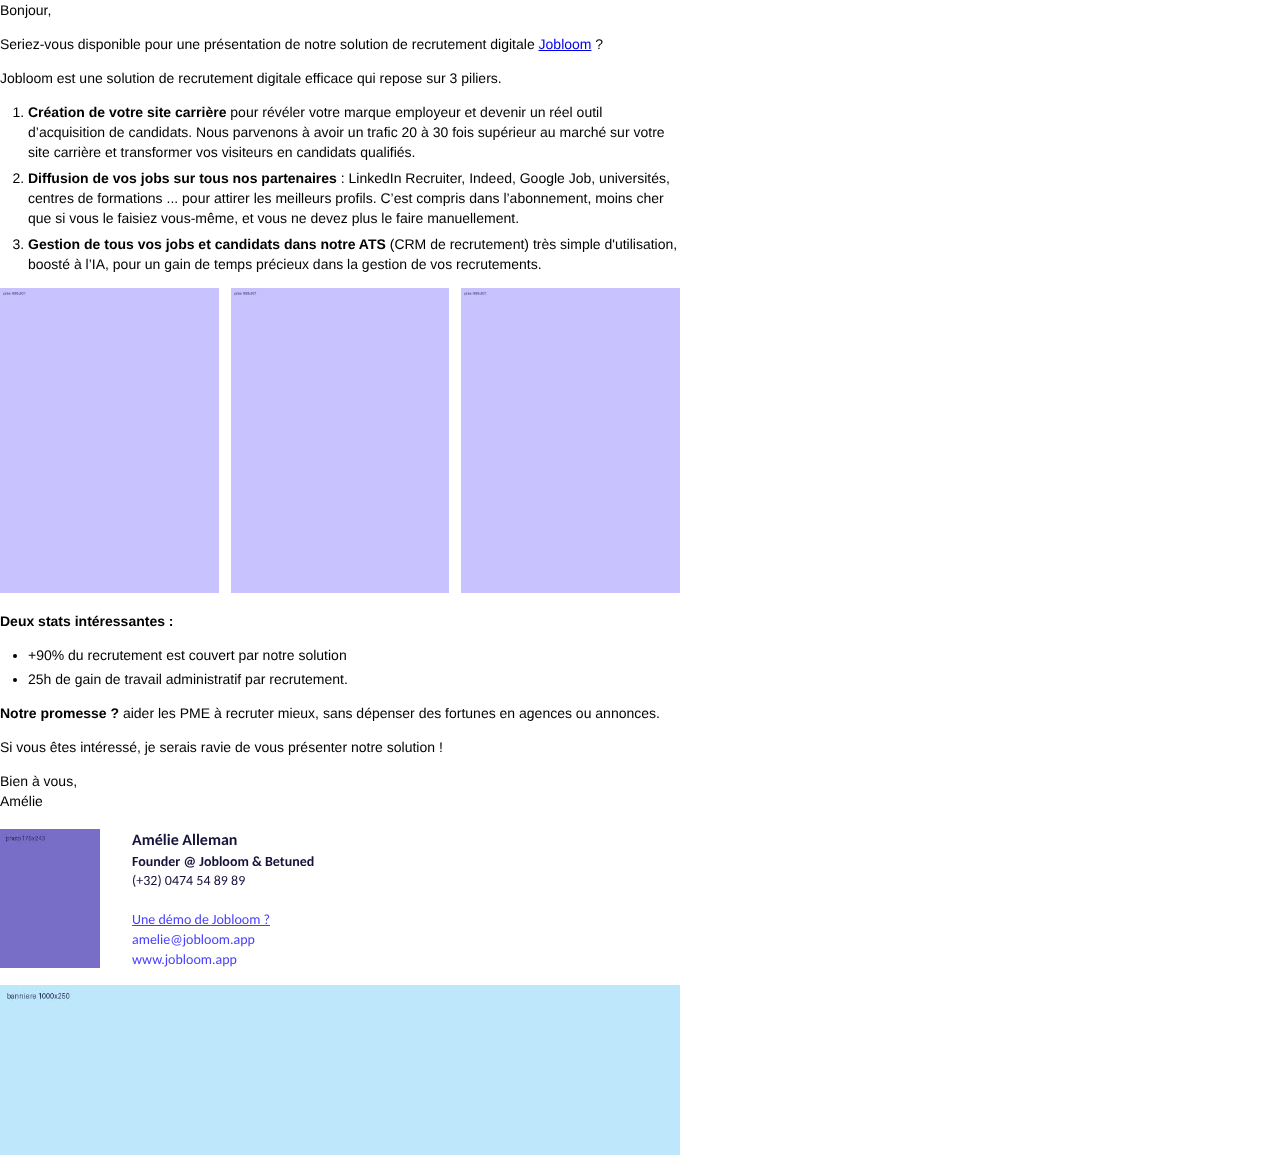
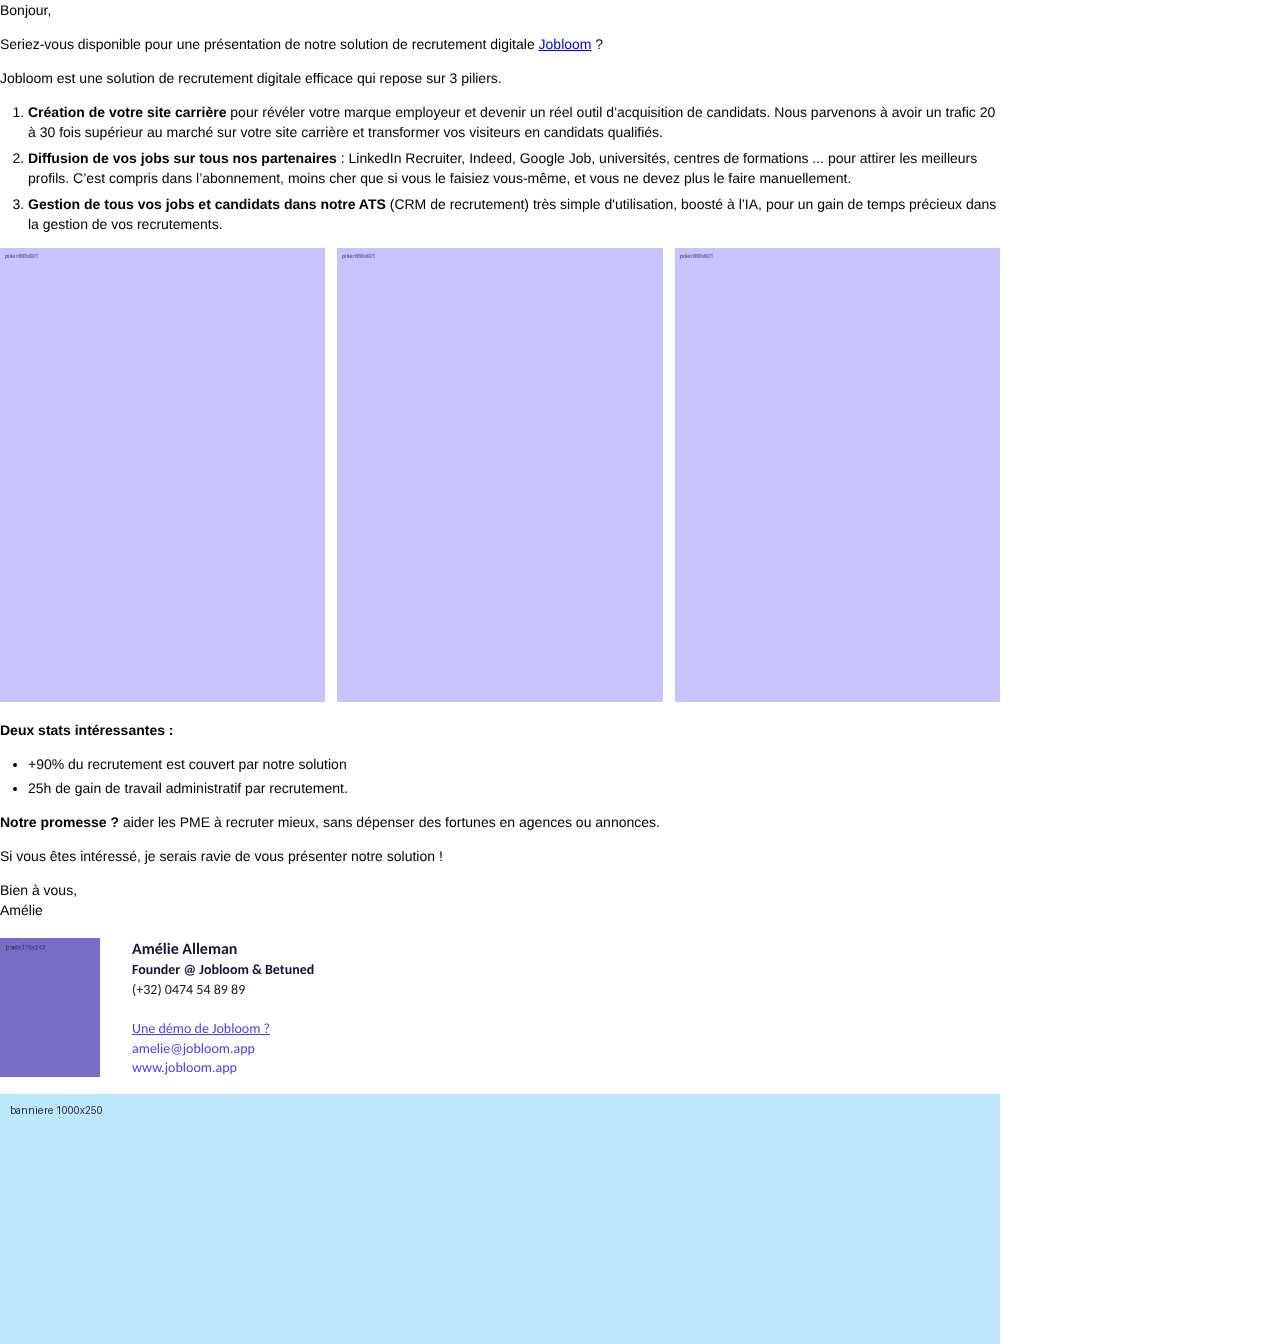
Email Amélie : largeur PC portée à 1000 px (800 px Outlook)
Claude-Session: https://claude.ai/code/session_01XTeiUwKp5X2MxE8FSKHjU9

Changed region(s): [[0.0, 0.0, 0.7812, 1.0]]

diff --git a/email-livrable/email_1st_Amelie_final.html b/email-livrable/email_1st_Amelie_final.html
@@ -28,8 +28,8 @@ li{margin-left:0 !important;}</style>
 <body style="margin:0;padding:0;-webkit-text-size-adjust:100%;-ms-text-size-adjust:100%">
 <table role="presentation" cellpadding="0" cellspacing="0" border="0" width="100%" style="border-collapse:collapse;width:100%">
 <tr><td class="wrap" align="left" style="padding:0">
-<!--[if mso]><table role="presentation" width="680" cellpadding="0" cellspacing="0" border="0"><tr><td><![endif]-->
-<div class="txt" style="width:100%;max-width:680px;font-family:Arial,Helvetica,sans-serif;font-size:14px;line-height:20px;mso-line-height-rule:exactly;color:#000000">
+<!--[if mso]><table role="presentation" width="800" cellpadding="0" cellspacing="0" border="0"><tr><td><![endif]-->
+<div class="txt" style="width:100%;max-width:1000px;font-family:Arial,Helvetica,sans-serif;font-size:14px;line-height:20px;mso-line-height-rule:exactly;color:#000000">
 
 <p style="margin:0 0 14px 0">Bonjour,</p>
 <p style="margin:0 0 14px 0">Seriez-vous disponible pour une présentation de notre solution de recrutement digitale <a href="https://www.jobloom.be/">Jobloom</a>&nbsp;?</p>
@@ -39,7 +39,7 @@ li{margin-left:0 !important;}</style>
 <li style="margin:0 0 6px 0"><b>Diffusion de vos jobs sur tous nos partenaires&nbsp;</b>: LinkedIn Recruiter, Indeed, Google Job, universités, centres de formations ... pour attirer les meilleurs profils. C’est compris dans l’abonnement, moins cher que si vous le faisiez vous-même, et vous ne devez plus le faire manuellement.</li>
 <li style="margin:0"><b>Gestion de tous vos jobs et candidats dans notre ATS</b> (CRM de recrutement) très simple d'utilisation, boosté à l’IA, pour un gain de temps précieux dans la gestion de vos recrutements.</li>
 </ol>
-<table role="presentation" class="cards" cellpadding="0" cellspacing="0" border="0" width="100%" style="border-collapse:collapse;width:100%;margin:4px 0 18px 0"><tr><td class="cardtd" width="33%" valign="top" style="width:33.33%;padding:0 8px 0 0"><a href="https://www.jobloom.app/" style="text-decoration:none"><!--[if mso]><img src="https://jobloom-landing-pages-massimoharnisfeger-hues-projects.vercel.app/signature/pilier-1.jpg" width="218" alt="Site Carrière" style="display:block;width:218px;border:0"><![endif]--><!--[if !mso]><!--><img src="https://jobloom-landing-pages-massimoharnisfeger-hues-projects.vercel.app/signature/pilier-1.jpg" width="218" alt="Site Carrière" style="display:block;width:100%;height:auto;border:0"><!--<![endif]--></a></td><td class="cardtd" width="33%" valign="top" style="width:33.33%;padding:0 4px"><a href="https://www.jobloom.app/" style="text-decoration:none"><!--[if mso]><img src="https://jobloom-landing-pages-massimoharnisfeger-hues-projects.vercel.app/signature/pilier-2.jpg" width="218" alt="Multidiffusion en un clic" style="display:block;width:218px;border:0"><![endif]--><!--[if !mso]><!--><img src="https://jobloom-landing-pages-massimoharnisfeger-hues-projects.vercel.app/signature/pilier-2.jpg" width="218" alt="Multidiffusion en un clic" style="display:block;width:100%;height:auto;border:0"><!--<![endif]--></a></td><td class="cardtd" width="33%" valign="top" style="width:33.33%;padding:0 0 0 8px"><a href="https://www.jobloom.app/" style="text-decoration:none"><!--[if mso]><img src="https://jobloom-landing-pages-massimoharnisfeger-hues-projects.vercel.app/signature/pilier-3.jpg" width="218" alt="Gestion des candidats" style="display:block;width:218px;border:0"><![endif]--><!--[if !mso]><!--><img src="https://jobloom-landing-pages-massimoharnisfeger-hues-projects.vercel.app/signature/pilier-3.jpg" width="218" alt="Gestion des candidats" style="display:block;width:100%;height:auto;border:0"><!--<![endif]--></a></td></tr></table>
+<table role="presentation" class="cards" cellpadding="0" cellspacing="0" border="0" width="100%" style="border-collapse:collapse;width:100%;margin:4px 0 18px 0"><tr><td class="cardtd" width="33%" valign="top" style="width:33.33%;padding:0 8px 0 0"><a href="https://www.jobloom.app/" style="text-decoration:none"><!--[if mso]><img src="https://jobloom-landing-pages-massimoharnisfeger-hues-projects.vercel.app/signature/pilier-1.jpg" width="258" alt="Site Carrière" style="display:block;width:258px;border:0"><![endif]--><!--[if !mso]><!--><img src="https://jobloom-landing-pages-massimoharnisfeger-hues-projects.vercel.app/signature/pilier-1.jpg" width="218" alt="Site Carrière" style="display:block;width:100%;height:auto;border:0"><!--<![endif]--></a></td><td class="cardtd" width="33%" valign="top" style="width:33.33%;padding:0 4px"><a href="https://www.jobloom.app/" style="text-decoration:none"><!--[if mso]><img src="https://jobloom-landing-pages-massimoharnisfeger-hues-projects.vercel.app/signature/pilier-2.jpg" width="258" alt="Multidiffusion en un clic" style="display:block;width:258px;border:0"><![endif]--><!--[if !mso]><!--><img src="https://jobloom-landing-pages-massimoharnisfeger-hues-projects.vercel.app/signature/pilier-2.jpg" width="218" alt="Multidiffusion en un clic" style="display:block;width:100%;height:auto;border:0"><!--<![endif]--></a></td><td class="cardtd" width="33%" valign="top" style="width:33.33%;padding:0 0 0 8px"><a href="https://www.jobloom.app/" style="text-decoration:none"><!--[if mso]><img src="https://jobloom-landing-pages-massimoharnisfeger-hues-projects.vercel.app/signature/pilier-3.jpg" width="258" alt="Gestion des candidats" style="display:block;width:258px;border:0"><![endif]--><!--[if !mso]><!--><img src="https://jobloom-landing-pages-massimoharnisfeger-hues-projects.vercel.app/signature/pilier-3.jpg" width="218" alt="Gestion des candidats" style="display:block;width:100%;height:auto;border:0"><!--<![endif]--></a></td></tr></table>
 <p style="margin:0 0 14px 0"><b>Deux stats intéressantes&nbsp;:</b></p>
 <ul class="list" style="margin:0 0 14px 0;padding-left:28px">
 <li style="margin:0 0 4px 0">+90% du recrutement est couvert par notre solution</li>
@@ -63,8 +63,8 @@ li{margin-left:0 !important;}</style>
 </tr>
 </table>
 <table role="presentation" cellpadding="0" cellspacing="0" border="0" width="100%" style="border-collapse:collapse;width:100%;margin:16px 0 0 0"><tr><td align="left" style="padding:0"><a href="https://www.jobloom.app/agenda" style="text-decoration:none">
-<!--[if mso]><img src="https://jobloom-landing-pages-massimoharnisfeger-hues-projects.vercel.app/signature/banniere-jobloom.jpg" width="680" alt="Recruter, c'est cher, long et compliqué. Mais tellement moins avec Jobloom" style="display:block;width:680px;border:0"><![endif]-->
-<!--[if !mso]><!--><img src="https://jobloom-landing-pages-massimoharnisfeger-hues-projects.vercel.app/signature/banniere-jobloom.jpg" width="680" alt="Recruter, c'est cher, long et compliqué. Mais tellement moins avec Jobloom" style="display:block;width:100%;height:auto;border:0"><!--<![endif]-->
+<!--[if mso]><img src="https://jobloom-landing-pages-massimoharnisfeger-hues-projects.vercel.app/signature/banniere-jobloom.jpg" width="800" alt="Recruter, c'est cher, long et compliqué. Mais tellement moins avec Jobloom" style="display:block;width:800px;border:0"><![endif]-->
+<!--[if !mso]><!--><img src="https://jobloom-landing-pages-massimoharnisfeger-hues-projects.vercel.app/signature/banniere-jobloom.jpg" width="1000" alt="Recruter, c'est cher, long et compliqué. Mais tellement moins avec Jobloom" style="display:block;width:100%;height:auto;border:0"><!--<![endif]-->
 </a></td></tr></table>
 
 </div>
